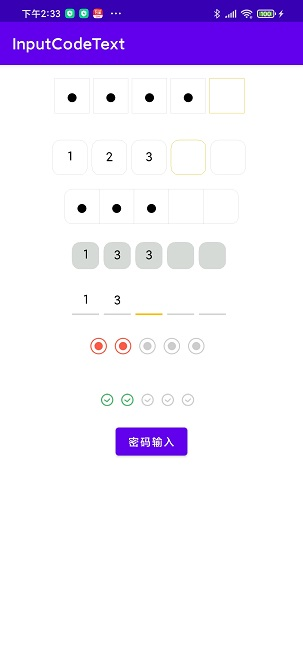
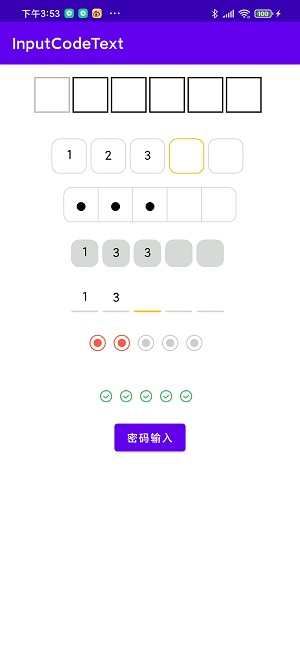
修改样式，添加响应事件

diff --git a/inputCode/src/main/java/com/dzw/inputcode/InputCodeEditText.java b/inputCode/src/main/java/com/dzw/inputcode/InputCodeEditText.java
@@ -31,10 +31,7 @@ import android.util.TypedValue;
 import android.view.ActionMode;
 import android.view.Menu;
 import android.view.MenuItem;
-import android.view.View;
 import android.widget.EditText;
-
-import java.lang.reflect.Field;
 
 /**
  * 自定义文本输入框，增加清空按钮
@@ -44,6 +41,7 @@ public class InputCodeEditText extends EditText implements TextWatcher {
     private Paint paint;//绘制方框
     private Paint textPaint;//绘制字体
     private float bgCenterY;
+    private OnCodeCompleteListener onCodeCompleteListener;
     /**
      * 输入框的宽高
      */
@@ -97,6 +95,10 @@ public class InputCodeEditText extends EditText implements TextWatcher {
      * 自定义密码图片未选中选中
      */
     private int mUnSelect = R.mipmap.input_unselect;
+    /**
+     * 设置paint宽度
+     * */
+    private int mStrokeWidth;
 
 
     public InputCodeEditText(Context context, AttributeSet attrs) {
@@ -111,25 +113,26 @@ public class InputCodeEditText extends EditText implements TextWatcher {
 
 
     private void init(AttributeSet attrs) {
-        TypedArray typedArray = getContext().obtainStyledAttributes(attrs, R.styleable.PwdEditText);
-        intervalSize = typedArray.getDimensionPixelSize(R.styleable.PwdEditText_tvIntervalSize, intervalSize);
-        radius = typedArray.getDimensionPixelSize(R.styleable.PwdEditText_radius, radius);
-        textSize = typedArray.getDimensionPixelSize(R.styleable.PwdEditText_tvTextSize, textSize);
-        tvWidthSize = typedArray.getDimensionPixelSize(R.styleable.PwdEditText_tvWidth, tvWidthSize);
-        mTextLen = typedArray.getInt(R.styleable.PwdEditText_tvLen, mTextLen);
-        isPassWord = typedArray.getBoolean(R.styleable.PwdEditText_tvIsPwd, isPassWord);
-        mTextColor = typedArray.getColor(R.styleable.PwdEditText_tvTextColor, mTextColor);
-        mBorderColor = typedArray.getColor(R.styleable.PwdEditText_tvBorderColor, mBorderColor);
-        mFocusBorderColor = typedArray.getColor(R.styleable.PwdEditText_tvFocusBorderColor, mFocusBorderColor);
-        mStyle = typedArray.getInt(R.styleable.PwdEditText_tvStyle, mStyle);
-        mSelect = typedArray.getResourceId(R.styleable.PwdEditText_tvCustomSelectIcon, mSelect);
-        mUnSelect = typedArray.getResourceId(R.styleable.PwdEditText_tvUnCustomSelectIcon, mUnSelect);
+        TypedArray typedArray = getContext().obtainStyledAttributes(attrs, R.styleable.CodeEditText);
+        intervalSize = typedArray.getDimensionPixelSize(R.styleable.CodeEditText_tvIntervalSize, intervalSize);
+        radius = typedArray.getDimensionPixelSize(R.styleable.CodeEditText_radius, radius);
+        textSize = typedArray.getDimensionPixelSize(R.styleable.CodeEditText_tvTextSize, textSize);
+        tvWidthSize = typedArray.getDimensionPixelSize(R.styleable.CodeEditText_tvWidth, tvWidthSize);
+        mTextLen = typedArray.getInt(R.styleable.CodeEditText_tvLen, mTextLen);
+        isPassWord = typedArray.getBoolean(R.styleable.CodeEditText_tvIsPwd, isPassWord);
+        mTextColor = typedArray.getColor(R.styleable.CodeEditText_tvTextColor, mTextColor);
+        mBorderColor = typedArray.getColor(R.styleable.CodeEditText_tvBorderColor, mBorderColor);
+        mFocusBorderColor = typedArray.getColor(R.styleable.CodeEditText_tvFocusBorderColor, mFocusBorderColor);
+        mStyle = typedArray.getInt(R.styleable.CodeEditText_tvStyle, mStyle);
+        mSelect = typedArray.getResourceId(R.styleable.CodeEditText_tvCustomSelectIcon, mSelect);
+        mUnSelect = typedArray.getResourceId(R.styleable.CodeEditText_tvUnCustomSelectIcon, mUnSelect);
+        mStrokeWidth = typedArray.getDimensionPixelOffset(R.styleable.CodeEditText_tvStrokeWidth, dip2px(1));
         typedArray.recycle();
         setBackgroundColor(Color.WHITE);
         // 增加文本监听器.
         paint = new Paint();
         paint.setStyle(Paint.Style.STROKE);
-        paint.setStrokeWidth(1);
+        paint.setStrokeWidth(mStrokeWidth);
         paint.setColor(mBorderColor);
 
         // 增加文本监听器.
@@ -308,7 +311,9 @@ public class InputCodeEditText extends EditText implements TextWatcher {
         }
     }
 
-    /*%每次删除一个*/
+    /**
+     * 每次删除一个
+     */
     public void removeText() {
         if (getText().length() > 0) {
             setText(getText().toString().substring(0, getText().length() - 1));
@@ -340,21 +345,9 @@ public class InputCodeEditText extends EditText implements TextWatcher {
                 return;
             }
 
-            editText.setOnLongClickListener(new OnLongClickListener() {
-                @Override
-                public boolean onLongClick(View v) {
-                    return true;
-                }
-            });
+            editText.setOnLongClickListener(v -> true);
             editText.setLongClickable(false);
-//            editText.setOnTouchListener((v, event) -> {
-//                if (event.getAction() == MotionEvent.ACTION_DOWN) {
-//                    // setInsertionDisabled when user touches the view
-//                    setInsertionDisabled(editText);
-//                }
-//                performClick();
-//                return false;
-//            });
+
             editText.setCustomSelectionActionModeCallback(new ActionMode.Callback() {
                 @Override
                 public boolean onCreateActionMode(ActionMode mode, Menu menu) {
@@ -381,26 +374,8 @@ public class InputCodeEditText extends EditText implements TextWatcher {
         }
     }
 
-    private void setInsertionDisabled(EditText editText) {
-        try {
-            Field editorField = EditText.class.getDeclaredField("mEditor");
-            editorField.setAccessible(true);
-            Object editorObject = editorField.get(editText);
 
-            // if this view supports insertion handles
-            Class editorClass = Class.forName("android.widget.Editor");
-            Field mInsertionControllerEnabledField = editorClass.getDeclaredField("mInsertionControllerEnabled");
-            mInsertionControllerEnabledField.setAccessible(true);
-            mInsertionControllerEnabledField.set(editorObject, false);
 
-            // if this view supports selection handles
-            Field mSelectionControllerEnabledField = editorClass.getDeclaredField("mSelectionControllerEnabled");
-            mSelectionControllerEnabledField.setAccessible(true);
-            mSelectionControllerEnabledField.set(editorObject, false);
-        } catch (Exception e) {
-            e.printStackTrace();
-        }
-    }
 
     @Override
     public void beforeTextChanged(CharSequence s, int start, int count, int after) {
@@ -410,12 +385,33 @@ public class InputCodeEditText extends EditText implements TextWatcher {
     @Override
     public void onTextChanged(CharSequence s, int start, int before, int count) {
         invalidate();
-
     }
 
     @Override
     public void afterTextChanged(Editable s) {
-
+        if (onCodeCompleteListener != null) {
+            if (getText().length() == mTextLen) {
+                onCodeCompleteListener.inputCodeComplete(getText().toString());
+            } else {
+                onCodeCompleteListener.inputCodeInput(getText().toString());
+            }
+        }
     }
 
+
+    /**
+     * 输入完成回调接口
+     */
+    public interface OnCodeCompleteListener {
+        //完成输入
+        void inputCodeComplete(String verificationCode);
+
+        //未完成输入
+        void inputCodeInput(String verificationCode);
+    }
+
+
+    public void setOnCodeCompleteListener(OnCodeCompleteListener onCodeCompleteListener) {
+        this.onCodeCompleteListener = onCodeCompleteListener;
+    }
 }

diff --git a/app/src/main/java/com/dzw/inputpwdcodetext/MainActivity.java b/app/src/main/java/com/dzw/inputpwdcodetext/MainActivity.java
@@ -2,25 +2,46 @@ package com.dzw.inputpwdcodetext;
 
 import android.os.Bundle;
 import android.view.View;
+import android.widget.Toast;
 
 import androidx.annotation.Nullable;
 import androidx.appcompat.app.AppCompatActivity;
 
+import com.dzw.inputcode.InputCodeEditText;
+import com.dzw.inputpwdcodetext.databinding.MainActivityBinding;
 import com.dzw.inputpwdcodetext.dialog.PwdDialog;
 
 /**
  * @author zhangwei on 2020/12/19.
  */
-public class MainActivity extends AppCompatActivity {
+public class MainActivity extends AppCompatActivity implements InputCodeEditText.OnCodeCompleteListener {
 
     @Override
     protected void onCreate(@Nullable Bundle savedInstanceState) {
         super.onCreate(savedInstanceState);
-        setContentView(R.layout.main_activity);
+        MainActivityBinding mainActivityBinding = MainActivityBinding.inflate(getLayoutInflater());
+        setContentView(mainActivityBinding.getRoot());
+        mainActivityBinding.inputCode1.setOnCodeCompleteListener(this);
+        mainActivityBinding.inputCode2.setOnCodeCompleteListener(this);
+        mainActivityBinding.inputCode3.setOnCodeCompleteListener(this);
+        mainActivityBinding.inputCode4.setOnCodeCompleteListener(this);
+        mainActivityBinding.inputCode5.setOnCodeCompleteListener(this);
+        mainActivityBinding.inputCode6.setOnCodeCompleteListener(this);
+        mainActivityBinding.inputCode7.setOnCodeCompleteListener(this);
     }
 
 
     public void onClickShowDialog(View view) {
         new PwdDialog(this).setNumRand(true).show();
+    }
+
+    @Override
+    public void inputCodeComplete(String verificationCode) {
+        Toast.makeText(this, verificationCode, Toast.LENGTH_SHORT).show();
+    }
+
+    @Override
+    public void inputCodeInput(String verificationCode) {
+
     }
 }

diff --git a/app/src/main/java/com/dzw/inputpwdcodetext/dialog/PwdDialog.java b/app/src/main/java/com/dzw/inputpwdcodetext/dialog/PwdDialog.java
@@ -24,7 +24,7 @@ import static android.view.Gravity.CENTER_HORIZONTAL;
 /**
  * @author zhangwei on 2021/4/6.
  */
-public class PwdDialog extends Dialog {
+public class PwdDialog extends Dialog implements InputCodeEditText.OnCodeCompleteListener {
 
     private String[] pwdKeyNum = new String[]{"1", "2", "3", "4", "5", "6", "7", "8", "9", "", "0", "back"};
     /**
@@ -49,6 +49,7 @@ public class PwdDialog extends Dialog {
         super.onCreate(savedInstanceState);
         setContentView(R.layout.password_dialog);
         mCodeText = findViewById(R.id.code_pwd_view);
+        mCodeText.setOnCodeCompleteListener(this);
         mCodeText.setEnabled(false);
         findViewById(R.id.cancel_iv).setOnClickListener(v -> dismiss());
         setCancelable(false);
@@ -80,7 +81,7 @@ public class PwdDialog extends Dialog {
         return this;
     }
 
-    /*现在在底层*/
+    /**设置在底部打开*/
     private void setBottom() {
         //1、使用Dialog、设置style
         //2、设置布局
@@ -156,5 +157,14 @@ public class PwdDialog extends Dialog {
     private int dip2px(float dpValue) {
         float scale = getContext().getResources().getDisplayMetrics().density;
         return (int) (dpValue * scale + 0.5f);
+    }
+
+    @Override
+    public void inputCodeComplete(String verificationCode) {
+        dismiss();
+    }
+
+    @Override
+    public void inputCodeInput(String verificationCode) {
     }
 }
